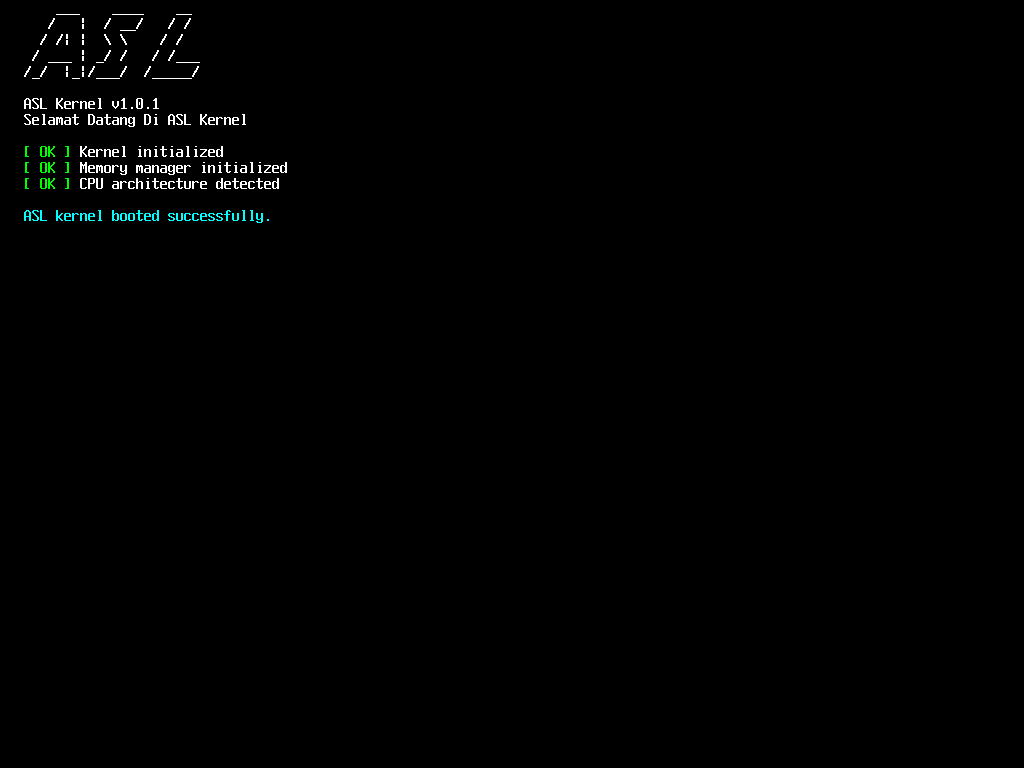
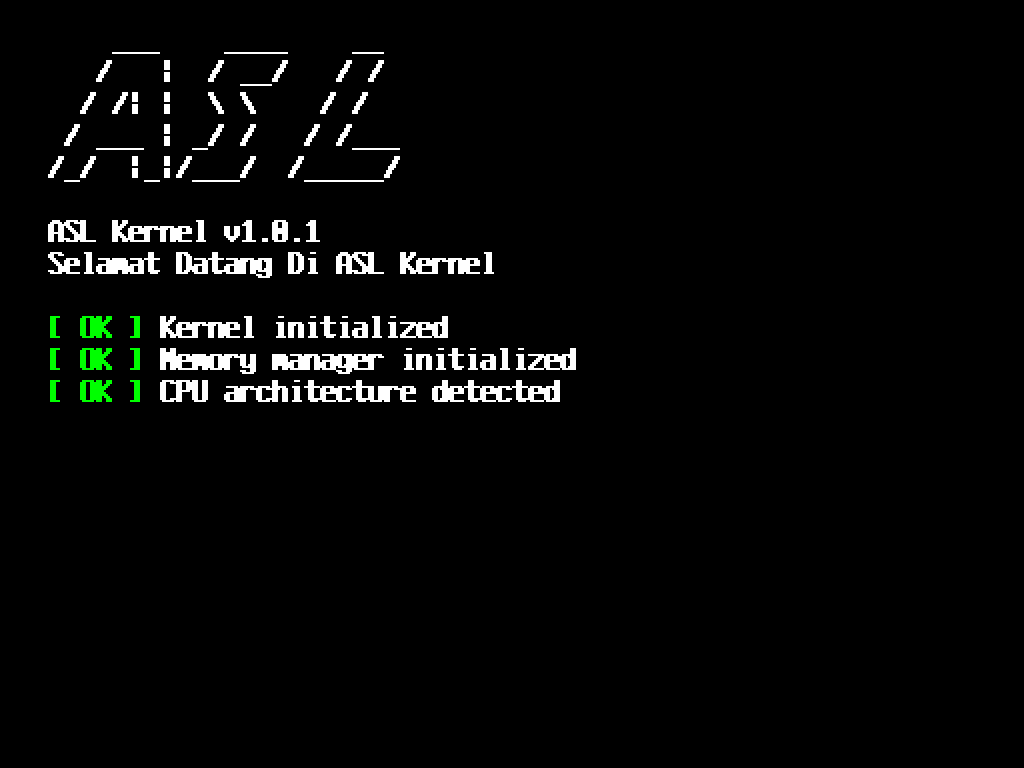
feat(display): enhance typography with 2x crisp bold font matrix and clean margin

diff --git a/asl-kernel/asl-kernel-core/src/lib.rs b/asl-kernel/asl-kernel-core/src/lib.rs
@@ -98,6 +98,8 @@ pub struct FbConsole {
     pub cursor_y: usize,
     pub fg_color: u32,
     pub bg_color: u32,
+    pub scale: usize,
+    pub bold: bool,
 }
 
 impl FbConsole {
@@ -112,6 +114,8 @@ impl FbConsole {
             cursor_y: 0,
             fg_color: 0x00FFFFFF, // White
             bg_color: 0x00000000, // Black
+            scale: 1,
+            bold: true,
         }
     }
 
@@ -125,6 +129,16 @@ impl FbConsole {
         self.cursor_y = 0;
         self.fg_color = 0x00FFFFFF;
         self.bg_color = 0x00000000;
+        self.scale = 1;
+        self.bold = true;
+    }
+
+    pub fn set_bold(&mut self, bold: bool) {
+        self.bold = bold;
+    }
+
+    pub fn set_scale(&mut self, scale: usize) {
+        self.scale = if scale == 0 { 1 } else { scale };
     }
 
     pub fn is_available(&self) -> bool {
@@ -152,11 +166,11 @@ impl FbConsole {
 
     pub fn new_line(&mut self) {
         self.cursor_x = 0;
-        let line_height = 16;
+        let line_height = 16 * self.scale;
         if self.cursor_y + line_height * 2 <= self.height {
             self.cursor_y += line_height;
         } else {
-            // Scroll frame up by 16 pixels
+            // Scroll frame up
             let stride_u32 = self.pitch_bytes / 4;
             let ptr = self.base as *mut u32;
             let copy_lines = self.height - line_height;
@@ -169,7 +183,7 @@ impl FbConsole {
                     }
                 }
             }
-            // Clear last 16 lines
+            // Clear last lines
             for y in copy_lines..self.height {
                 for x in 0..self.width {
                     unsafe {
@@ -188,7 +202,8 @@ impl FbConsole {
             b'\n' => self.new_line(),
             b'\r' => self.cursor_x = 0,
             _ => {
-                if self.cursor_x + 8 > self.width {
+                let char_width = 8 * self.scale;
+                if self.cursor_x + char_width > self.width {
                     self.new_line();
                 }
                 let glyph_idx = c as usize;
@@ -200,23 +215,30 @@ impl FbConsole {
 
                 for row in 0..16 {
                     let bits = glyph[row];
-                    let py = self.cursor_y + row;
-                    if py >= self.height {
-                        break;
-                    }
-                    for col in 0..8 {
-                        let px = self.cursor_x + col;
-                        if px >= self.width {
+                    for sy in 0..self.scale {
+                        let py = self.cursor_y + row * self.scale + sy;
+                        if py >= self.height {
                             break;
                         }
-                        let is_fg = (bits & (0x80 >> col)) != 0;
-                        let color = if is_fg { self.fg_color } else { self.bg_color };
-                        unsafe {
-                            core::ptr::write_volatile(ptr.add(py * stride_u32 + px), color);
+                        for col in 0..8 {
+                            let is_fg = (bits & (0x80 >> col)) != 0;
+                            let is_bold_fg = self.bold && col > 0 && ((bits & (0x80 >> (col - 1))) != 0);
+                            let active = is_fg || is_bold_fg;
+                            let color = if active { self.fg_color } else { self.bg_color };
+
+                            for sx in 0..self.scale {
+                                let px = self.cursor_x + col * self.scale + sx;
+                                if px >= self.width {
+                                    break;
+                                }
+                                unsafe {
+                                    core::ptr::write_volatile(ptr.add(py * stride_u32 + px), color);
+                                }
+                            }
                         }
                     }
                 }
-                self.cursor_x += 8;
+                self.cursor_x += char_width;
             }
         }
     }
@@ -401,7 +423,10 @@ pub unsafe extern "C" fn _asl_kernel_entry(handover_ptr: *const AslBootHandover)
                     pitch_bytes,
                     (fb_cfg.bytes_per_pixel as usize) * 8,
                 );
+                (*fb).set_scale(2); // 2x Scaling: 16x32px per glyph for crisp readability on 1024x768
+                (*fb).set_bold(true); // Enhanced font weight
                 (*fb).clear();
+                (*fb).cursor_y = 24; // Elegant top margin
             }
         }
     }
